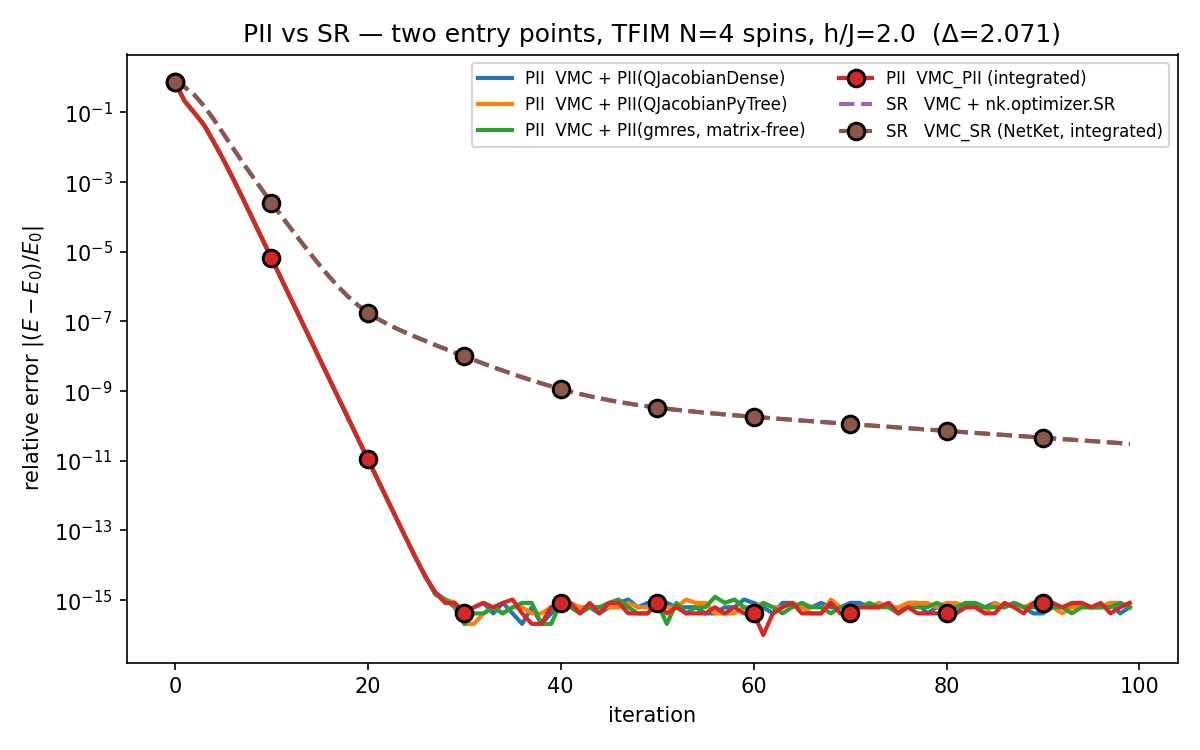
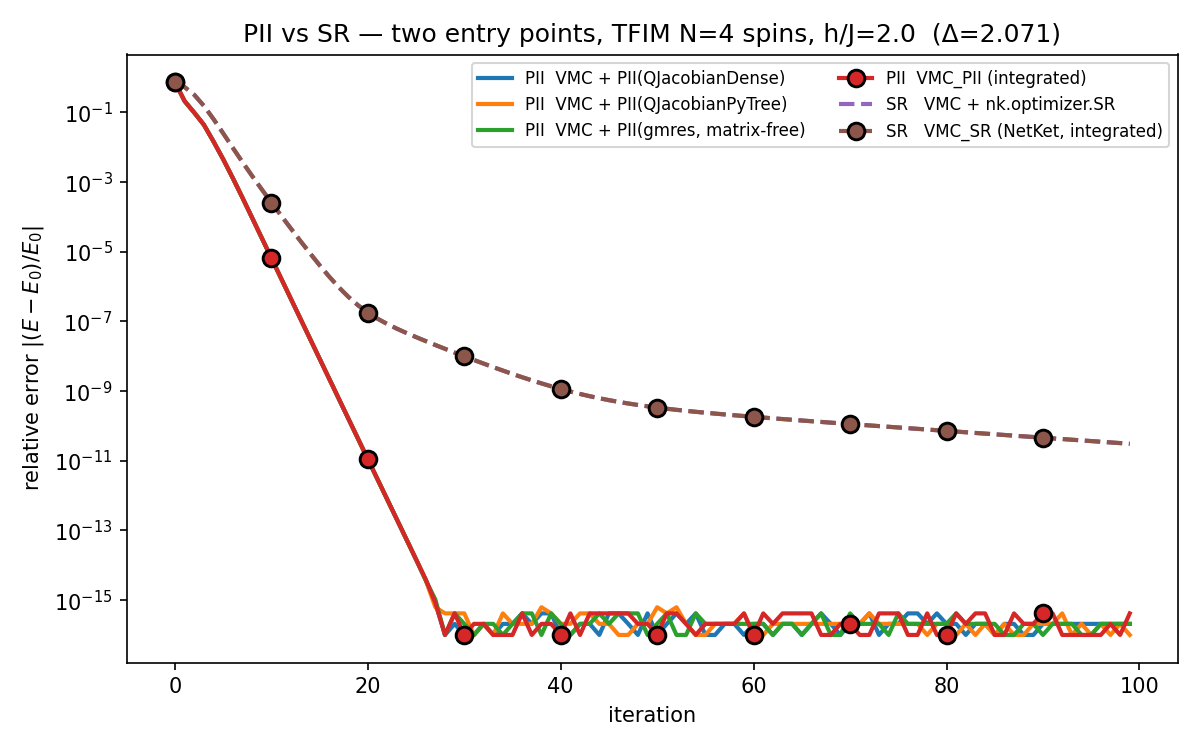
Fix recompilation of f_A

Changed region(s): [[0.3392, 0.7667, 0.9558, 0.8587]]

diff --git a/benchmarks/bench_pii_vs_sr.py b/benchmarks/bench_pii_vs_sr.py
@@ -1,0 +1,146 @@
+r"""Benchmark: how much slower is one PII step than one SR step, and why?
+
+Expectation (user): PII should be only a small constant (~3-5×) slower than SR per step. SR needs
+local-energy **values** ``E_L`` (forward passes over the ``n_conn`` connected configs); PII
+additionally needs local-energy **gradients** (the ``A``-Jacobian of ``f_A = E_L + sg(E_L)·logψ``).
+A backward pass is ~3-4× a forward pass, and **both** methods already pay the ``n_conn`` factor, so
+PII's *inherent* cost should be ~3-5× SR — not the ~400× seen in the wall-time example.
+
+This script (STEP 1 — measurement only, it changes nothing in ``pii/``) separates the **inherent
+compute** from a **per-step recompilation artifact**, by timing the jitted kernels directly:
+
+- ``t_fwd``  : a forward pass ``apply(params, samples)``;
+- ``t_bwd``  : one O-Jacobian ``nkjax.jacobian(apply, ...)``  → report ``t_bwd/t_fwd`` (model reference);
+- ``t_EL``   : local energies ``f_EL(...)``;
+- ``t_A``    : the A-Jacobian ``nkjax.jacobian(f_A, ...)``     → report ``t_A/t_EL``;
+- ``t_SR``       : one SR kernel step ``netket ...sr(apply, ...)``  (``apply`` is a *stable* object);
+- ``t_PII_steady``: one PII kernel step ``_pii_common(apply, f_A, ...)`` reusing the **same** ``f_A``
+  object (jit cache hit) — the **inherent** PII step cost;
+- ``t_PII_fresh`` : one PII kernel step building a **fresh** ``f_A`` each call (what the driver does
+  today at ``vmc_pii.py:283``) — exposes the recompilation.
+
+Key ratios printed: ``t_PII_steady/t_SR`` (should be ~3-5×, the real answer) vs ``t_PII_fresh/t_SR``
+(inflated) and ``t_PII_fresh/t_PII_steady`` (the recompile waste). Run::
+
+    python benchmarks/bench_pii_vs_sr.py
+"""
+
+import time
+from pathlib import Path
+
+import numpy as np
+import jax
+import netket as nk
+import netket.jax as nkjax
+import matplotlib.pyplot as plt
+
+from netket._src.ngd.sr_srt_common import sr
+from netket.optimizer.solver import cholesky_with_fallback
+
+from pii.ngd.common import _pii_common, get_samples_and_pdf
+from pii.ngd.local_energy import make_local_energy_funs
+from pii.optimizer.solver import pii_default_solver
+
+HERE = Path(__file__).parent
+
+N_SAMPLES = 1024
+ALPHA = 1
+MODE = "real"          # real RBM → real log-amplitude
+DIAG_SHIFT = 0.01
+TAU = -1.0             # timing only; value irrelevant
+SIZES = [6, 10, 14]    # chain length L
+
+
+def median_ms(thunk, reps, warmup):
+    """Median wall time (ms) of `thunk()` over `reps`, after `warmup` calls. `thunk` may build a
+    fresh object each call (to measure recompilation) or reuse a stable one (steady state)."""
+    for _ in range(warmup):
+        jax.block_until_ready(thunk())
+    ts = []
+    for _ in range(reps):
+        t0 = time.perf_counter()
+        jax.block_until_ready(thunk())
+        ts.append(time.perf_counter() - t0)
+    return float(np.median(ts)) * 1e3
+
+
+def bench_size(L):
+    g = nk.graph.Chain(L, pbc=True)
+    hi = nk.hilbert.Spin(s=0.5, N=g.n_nodes)
+    H = nk.operator.Ising(hilbert=hi, graph=g, h=2.0)
+    vs = nk.vqs.MCState(
+        nk.sampler.MetropolisLocal(hi, n_chains=16), nk.models.RBM(alpha=ALPHA, param_dtype=float),
+        n_samples=N_SAMPLES, seed=0,
+    )
+    vs.sample()
+    apply_fun, params, model_state = vs._apply_fun, vs.parameters, vs.model_state
+    samples, pdf = get_samples_and_pdf(vs)
+    f_EL, f_A = make_local_energy_funs(vs, H)
+    eloc = f_EL(vs.variables, samples)
+
+    jac = lambda f: nkjax.jacobian(  # noqa: E731
+        f, params, samples, model_state, mode=MODE, dense=True, center=True, pdf=pdf
+    )
+    sr_step = lambda: sr(  # noqa: E731
+        apply_fun, eloc, params, model_state, samples,
+        diag_shift=DIAG_SHIFT, solver_fn=cholesky_with_fallback, mode=MODE, weights=pdf,
+    )
+    pii_step = lambda fA: _pii_common(  # noqa: E731
+        apply_fun, fA, eloc, params, model_state, samples,
+        tau=TAU, diag_shift=DIAG_SHIFT, solver_fn=pii_default_solver, mode=MODE,
+        use_ntk=False, weights=pdf,
+    )
+
+    # jit the forward / E_L so they are apples-to-apples with the (internally jitted) jacobians
+    # — otherwise un-jitted Python dispatch dominates these cheap ops and the ratio is meaningless.
+    jit_apply, jit_fEL = jax.jit(apply_fun), jax.jit(f_EL)
+    t_fwd = median_ms(lambda: jit_apply(vs.variables, samples), reps=30, warmup=3)
+    t_bwd = median_ms(lambda: jac(apply_fun), reps=20, warmup=3)
+    t_EL = median_ms(lambda: jit_fEL(vs.variables, samples), reps=30, warmup=3)
+    t_A = median_ms(lambda: jac(f_A), reps=20, warmup=3)               # stable f_A → steady
+    t_SR = median_ms(sr_step, reps=20, warmup=3)
+    t_PII_steady = median_ms(lambda: pii_step(f_A), reps=20, warmup=3)  # same f_A → cache hit
+    t_PII_fresh = median_ms(                                            # fresh f_A → recompiles
+        lambda: pii_step(make_local_energy_funs(vs, H)[1]), reps=8, warmup=1
+    )
+    return dict(
+        L=L, P=int(vs.n_parameters),
+        t_fwd=t_fwd, bwd_fwd=t_bwd / t_fwd, t_EL=t_EL, A_EL=t_A / t_EL,
+        t_SR=t_SR, t_PII_steady=t_PII_steady, steady_SR=t_PII_steady / t_SR,
+        t_PII_fresh=t_PII_fresh, fresh_SR=t_PII_fresh / t_SR,
+        fresh_steady=t_PII_fresh / t_PII_steady,
+    )
+
+
+rows = []
+for L in SIZES:
+    r = bench_size(L)
+    rows.append(r)
+    print(
+        f"L={r['L']:2d} P={r['P']:4d} | "
+        f"bwd/fwd={r['bwd_fwd']:4.1f}  A/EL={r['A_EL']:4.1f} | "
+        f"SR={r['t_SR']:6.1f}ms  PII_steady={r['t_PII_steady']:7.1f}ms "
+        f"(x{r['steady_SR']:4.1f}) | PII_fresh={r['t_PII_fresh']:8.1f}ms "
+        f"(x{r['fresh_SR']:6.1f})  recompile_waste=x{r['fresh_steady']:6.1f}"
+    )
+
+print(
+    "\nReading: PII_steady/SR is the *inherent* PII cost (reuse f_A); PII_fresh/SR is what the driver "
+    "shows today (fresh f_A each step). A large fresh/steady ⇒ per-step recompilation."
+)
+
+# Plot the ratios vs n_params.
+P = [r["P"] for r in rows]
+fig, ax = plt.subplots(figsize=(7, 4.5))
+ax.plot(P, [r["bwd_fwd"] for r in rows], "o--", color="gray", label="model: backward/forward (ref)")
+ax.plot(P, [r["steady_SR"] for r in rows], "o-", color="C0", label="PII_steady / SR  (inherent)")
+ax.plot(P, [r["fresh_SR"] for r in rows], "s-", color="C3", label="PII_fresh / SR  (driver today)")
+ax.set_yscale("log")
+ax.set_xlabel("n_parameters")
+ax.set_ylabel("per-step time ratio vs SR")
+ax.set_title(f"PII vs SR per-step cost (TFIM chain, {N_SAMPLES} samples, RBM α={ALPHA})")
+ax.legend(fontsize=9)
+fig.tight_layout()
+out = HERE / "bench_pii_vs_sr.png"
+fig.savefig(out, dpi=150)
+print(f"saved {out}")

diff --git a/pii/ngd/local_energy.py b/pii/ngd/local_energy.py
@@ -35,10 +35,22 @@ configurations internally, the per-sample Jacobian of ``f_A`` is a single ``[P]`
 (or ``[2, P]``) vector with no ``n_conn`` axis: chunking over samples therefore
 bounds peak memory to ``chunk_size · n_conn`` forward/backward passes, never a
 ``[M, n_conn, P]`` tensor.
+
+**Stability for JIT (why ``HashablePartial``).** ``f_A`` is passed as a *static* argument to
+the jitted ``_pii_common`` kernel (and to ``nkjax.jacobian``).  If it were a fresh ``def``
+closure each step, every step would hash differently → a jit cache miss → a full
+**recompilation every iteration** (we measured ~170 ms of wasted compile per step).  NetKet
+avoids exactly this by keeping its ``local_kernel`` a stable/module-level function and, where a
+closure is unavoidable, wrapping it in :class:`netket.jax.HashablePartial` (which compares by
+``func.__code__`` + bound args).  We mirror that: ``f_EL``/``f_A`` are ``HashablePartial`` of the
+**module-level** ``_f_EL_impl``/``_f_A_impl``, binding only the stable, hashable ``apply_fun``
+(itself a ``HashablePartial`` in NetKet), ``kernel`` and operator ``args``.  Two freshly-built
+``f_A`` then hash **equal**, so the kernel is compiled **once** and reused.
 """
 
 import jax
 
+from netket import jax as nkjax
 from netket.vqs import MCState
 from netket.vqs.mc import get_local_kernel, get_local_kernel_arguments
 from netket.vqs.mc.kernels import local_value_kernel_jax
@@ -52,6 +64,10 @@ def _kernel_and_args(vstate, operator):
     returns sample-independent ``args``. :class:`~netket.vqs.FullSumState` does not
     register kernels, so we fall back to the standard discrete-jax kernel with the
     operator's jax form as the (sample-independent) argument.
+
+    Both the returned ``kernel`` (a module-level function, or a ``HashablePartial`` from
+    NetKet's chunked dispatch) and ``args`` (the jax operator) are hashable and value-stable,
+    so they can be bound into a ``HashablePartial`` (see :func:`make_local_energy_funs`).
     """
     if isinstance(vstate, MCState):
         kernel = get_local_kernel(vstate, operator)
@@ -60,6 +76,17 @@ def _kernel_and_args(vstate, operator):
 
     op = operator.to_jax_operator() if hasattr(operator, "to_jax_operator") else operator
     return local_value_kernel_jax, op
+
+
+def _f_EL_impl(apply_fun, kernel, args, variables, samples):
+    """Local energies ``E_L``. Module-level so a ``HashablePartial`` of it is stable."""
+    return kernel(apply_fun, variables, samples, args)
+
+
+def _f_A_impl(apply_fun, kernel, args, variables, samples):
+    """The PII ``A``-function ``E_L + sg(E_L)·logψ``. Module-level for ``HashablePartial`` stability."""
+    eloc = kernel(apply_fun, variables, samples, args)
+    return eloc + jax.lax.stop_gradient(eloc) * apply_fun(variables, samples)
 
 
 def make_local_energy_funs(vstate, operator):
@@ -76,15 +103,14 @@ def make_local_energy_funs(vstate, operator):
     - ``f_EL`` returns the local energies :math:`E_L`.
     - ``f_A`` returns :math:`E_L + \mathrm{sg}(E_L)\,\log\psi`, whose Jacobian
       w.r.t. the parameters is the PII matrix ``A`` (Eq. 28).
+
+    Both are :class:`netket.jax.HashablePartial` of module-level impls so that, even though they
+    are rebuilt every optimization step, they compare **equal** across steps and the jitted PII
+    kernel is compiled once (see the module docstring) — mirroring how NetKet handles its
+    ``local_kernel``.
     """
-    apply_fun = vstate._apply_fun
+    apply_fun = vstate._apply_fun  # already a HashablePartial in NetKet
     kernel, args = _kernel_and_args(vstate, operator)
-
-    def f_EL(variables, samples):
-        return kernel(apply_fun, variables, samples, args)
-
-    def f_A(variables, samples):
-        eloc = f_EL(variables, samples)
-        return eloc + jax.lax.stop_gradient(eloc) * apply_fun(variables, samples)
-
+    f_EL = nkjax.HashablePartial(_f_EL_impl, apply_fun, kernel, args)
+    f_A = nkjax.HashablePartial(_f_A_impl, apply_fun, kernel, args)
     return f_EL, f_A
